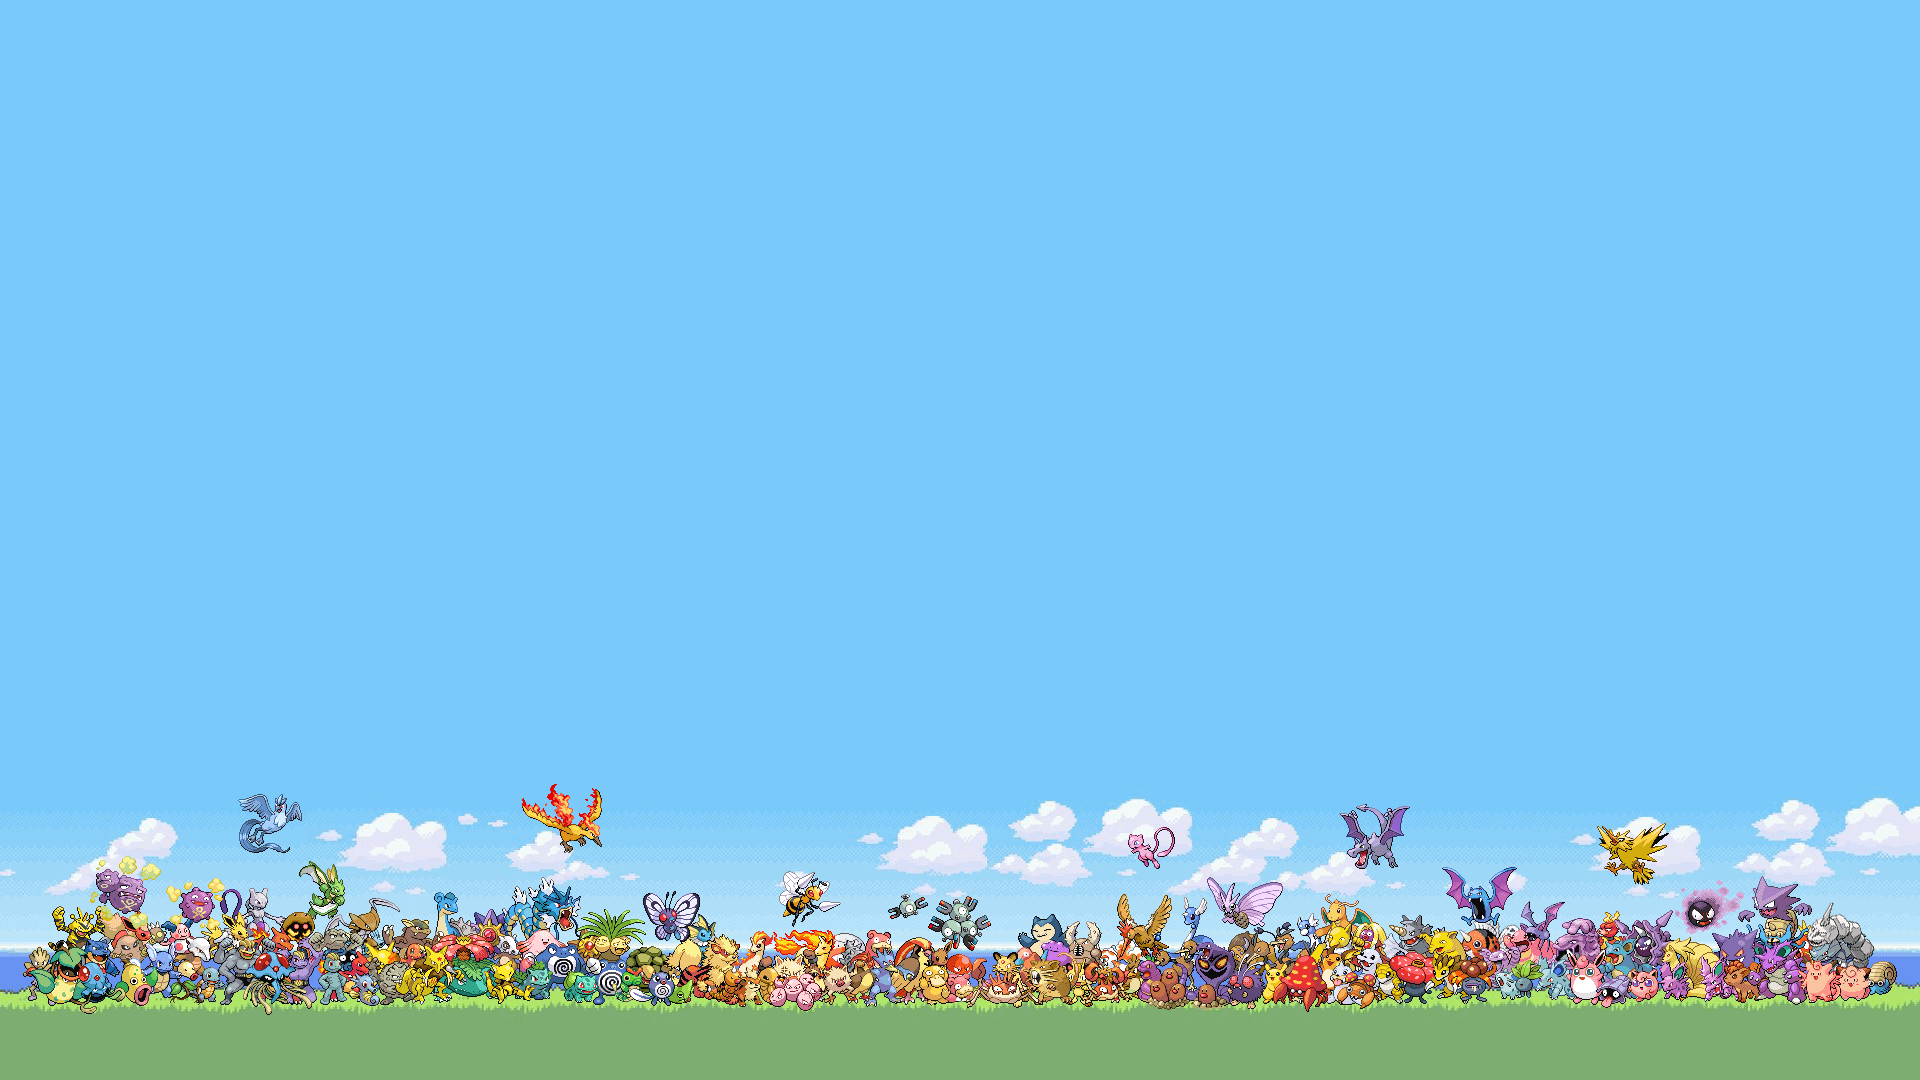
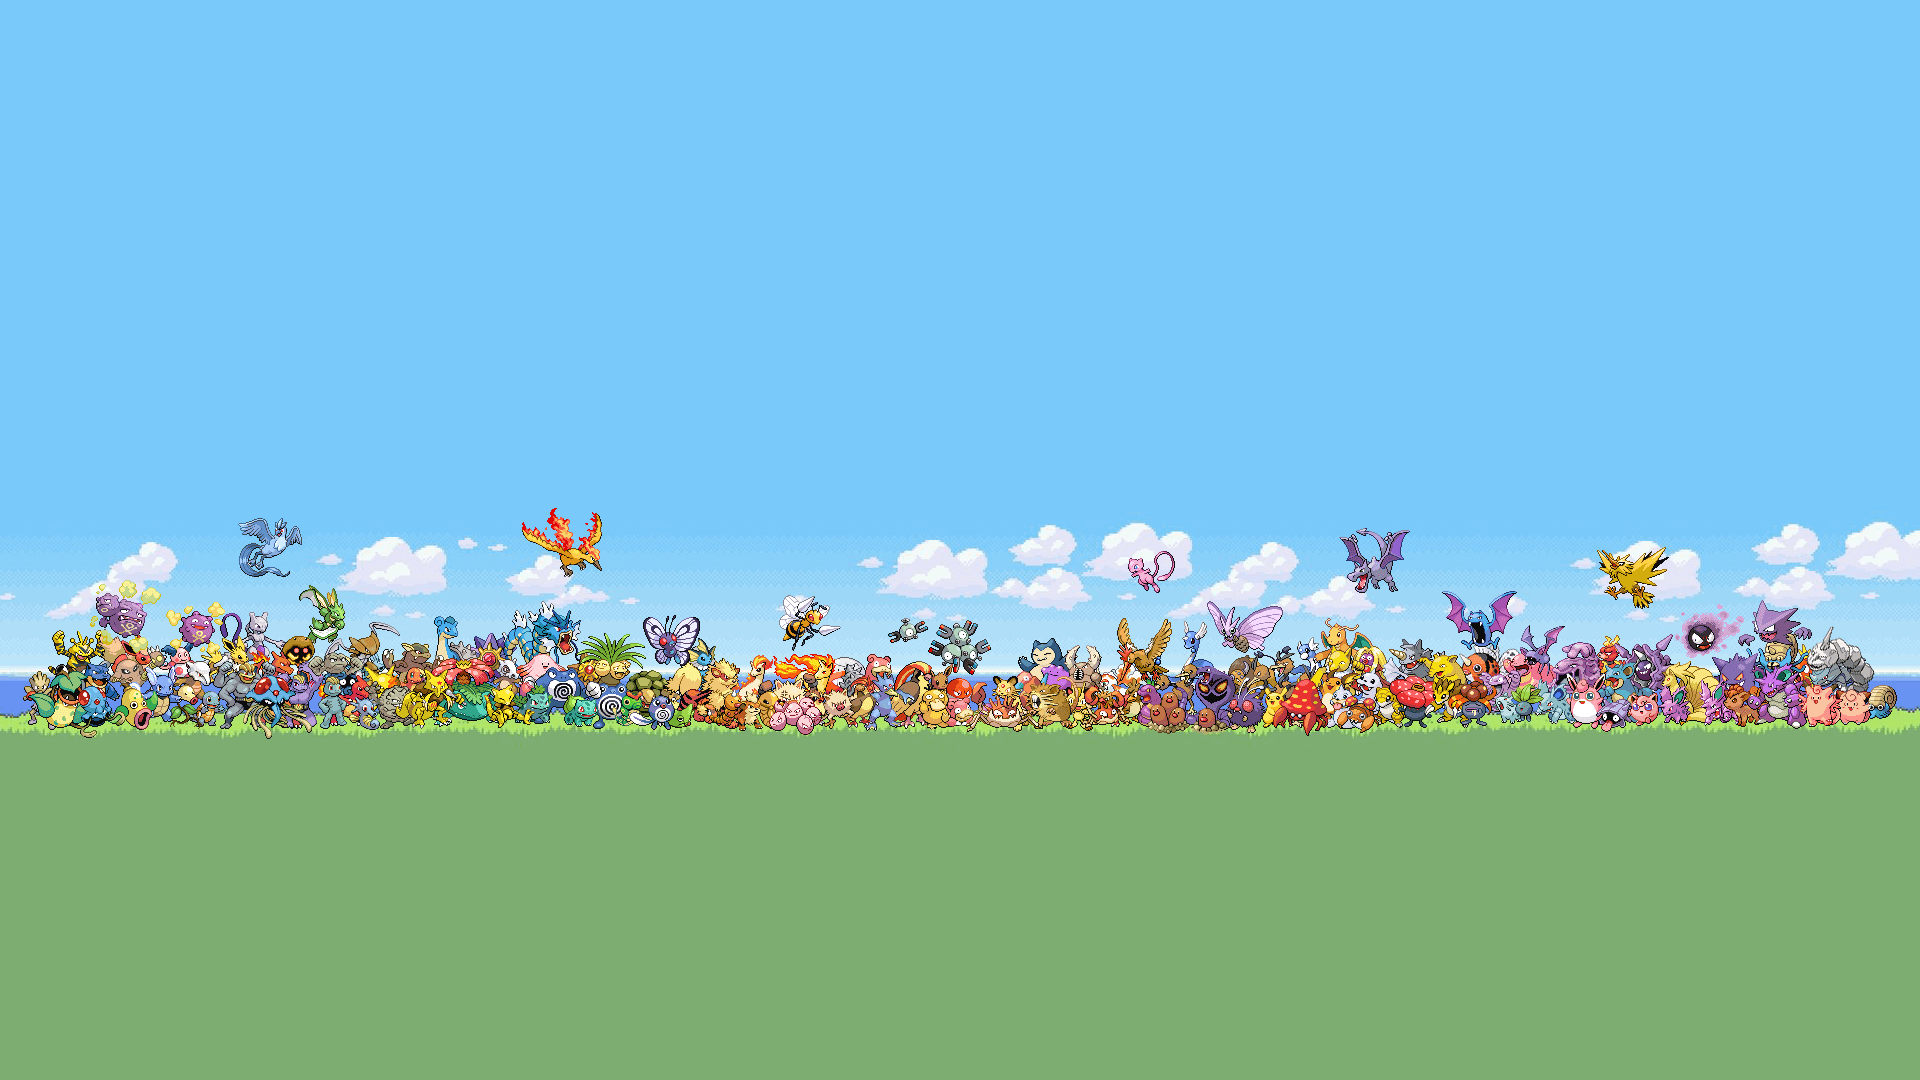
options y change dark mode

diff --git a/options.html b/options.html
@@ -1,0 +1,43 @@
+<!DOCTYPE html>
+<html lang="en">
+<head>
+    <meta name="Options" content="Options page">
+    </meta>
+    <meta charset="utf-8">
+    <meta name="theme-color" content="rgb(83, 82, 82);" />
+    <meta name="viewport" content="width=device-width, initial-scale=1, shrink-to-fit=no">
+    <link rel="apple-touch-icon" href="assets/images/others/icon.png">
+    <title>Option</title>
+    <!-- BOOTSTRAP -->
+    <link href="https://cdn.jsdelivr.net/npm/bootstrap@5.0.2/dist/css/bootstrap.min.css" rel="stylesheet" integrity="sha384-EVSTQN3/azprG1Anm3QDgpJLIm9Nao0Yz1ztcQTwFspd3yD65VohhpuuCOmLASjC" crossorigin="anonymous">
+    <link href="assets/styles/styles.css" media="all" rel="stylesheet" type="text/css"/>
+    
+</head>
+<body id="body">
+
+    <nav class="navbar navbar-expand-sm bg-dark navbar-dark">
+        <div class="container-fluid">
+            <a class="nav-link" draggable="false" href="index.html"><img src="assets\images\logo\logo.png"
+                    draggable="false" style="width: 100px;" alt="logo"></a>
+
+            <div class="collapse navbar-collapse d-flex justify-content-center align-items-center"
+                id="collapsibleNavbar">
+                <ul class="navbar-nav text-light">
+                    <li class="nav-item" id="level"></li>
+                    <li class="nav-item" id="money"></li>
+                    <li class="nav-item" id="damage"></li>
+                </ul>
+            </div>
+        </div>
+    </nav>
+
+    <div>
+        <img src="assets\images\options\options.png" alt="Options" width="250" style="display: block;  margin: 150px auto 0; ">
+        <ul>
+            <li><label href="#" onclick="changeDarkMode()" class="btn btn-warning col-md-3 m-4 border border-dark">Change dark mode</label></li>
+        </ul>
+        <script src="public/main/private/script.js"></script>
+    </div>
+    
+</body>
+</html>

diff --git a/game.html b/game.html
@@ -19,7 +19,7 @@
 
 </head>
 
-<body>
+<body id="body">
     <nav class="navbar navbar-expand-sm bg-dark navbar-dark">
         <div class="container-fluid">
             <a class="nav-link" draggable="false" href="index.html"><img src="assets\images\logo\logo.png"
@@ -37,7 +37,7 @@
         </div>
     </nav>
 
-
+    <label href="#" onclick="changeDarkMode()" class="btn btn-warning col-md-3 m-3 border border-dark">Change dark mode</label>
     <div class="d-flex justify-content-center align-items-center pb-5" id="saveSelector">
         <div class="justify-content-center row g-0 pb-5">
             <div class="border border-light bg-dark p-5 pt-0 pb-0" id="pokemonCard">

diff --git a/assets/styles/styles.css b/assets/styles/styles.css
@@ -1,11 +1,18 @@
  body {
      background-color: rgb(125, 173, 113);
-     background: url(../images/background/background-night.png) center no-repeat;
+     background: url(../images/background/background.png) center no-repeat;
      background-size: cover;
      background-position-y: 0;
      min-height: 100vh;
  }
  
+ .dark-mode {
+    background-color: #333;
+    background-image: url(../images/background/background-night.png);
+    background-size: cover;
+    min-height: 100vh;
+  }
+
  #pokemon {
      border: 1px solid white;
      border-radius: 20px;

diff --git a/public/main/private/script.js b/public/main/private/script.js
@@ -160,3 +160,9 @@ function validateForm() {
           }
           return true;
         }
+
+function changeDarkMode() {
+    var body = document.getElementById("body");
+    body.classList.toggle("dark-mode");
+}
+        
